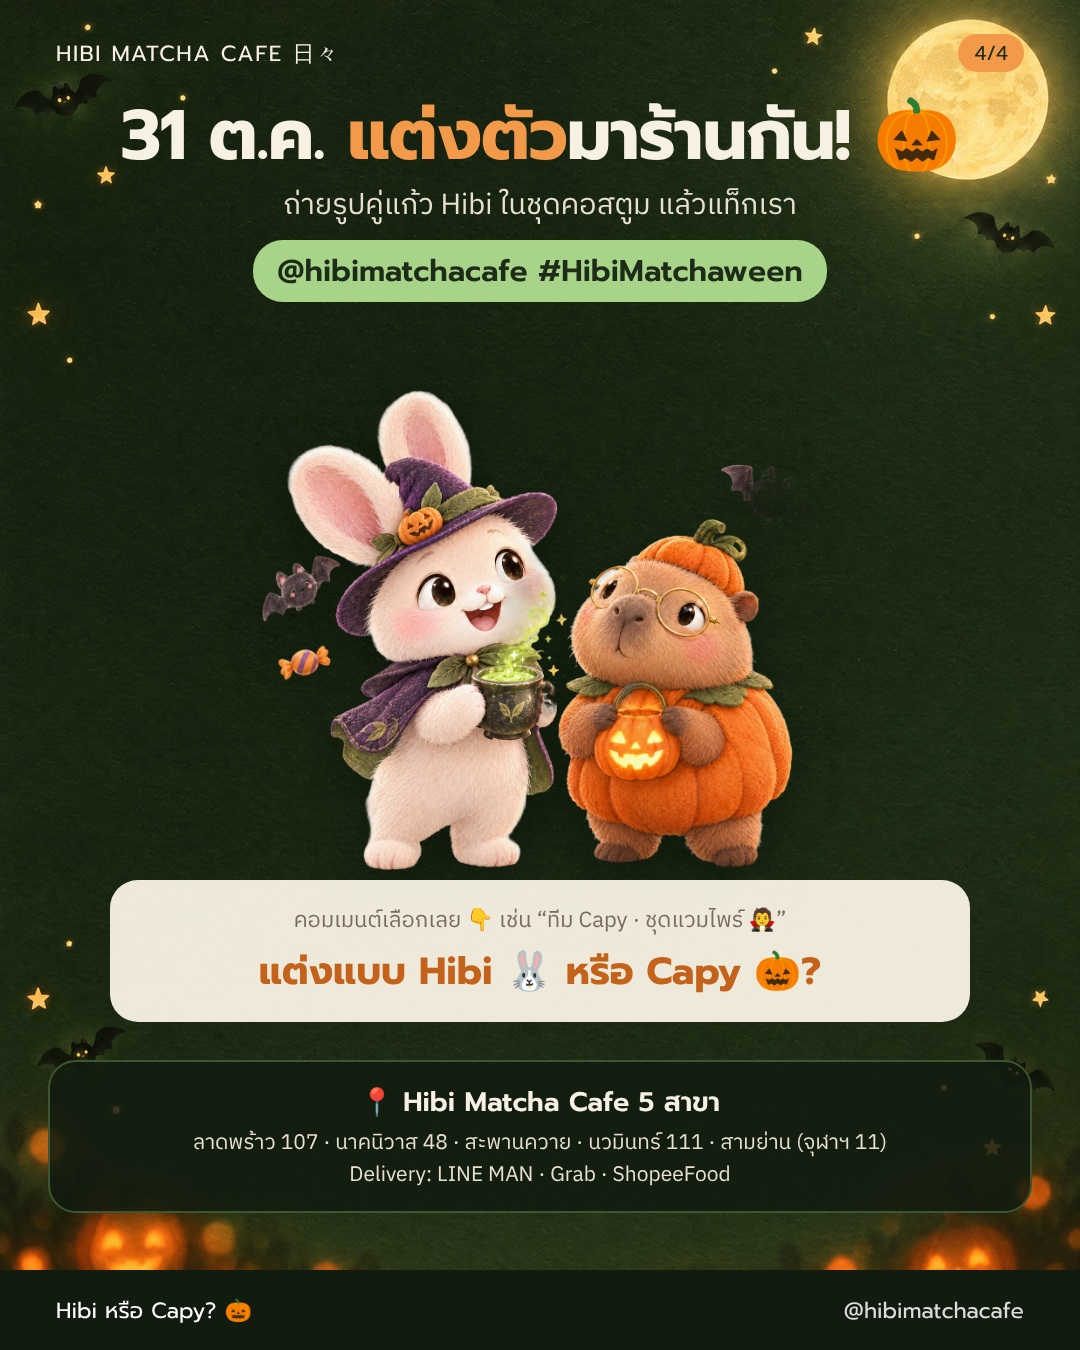
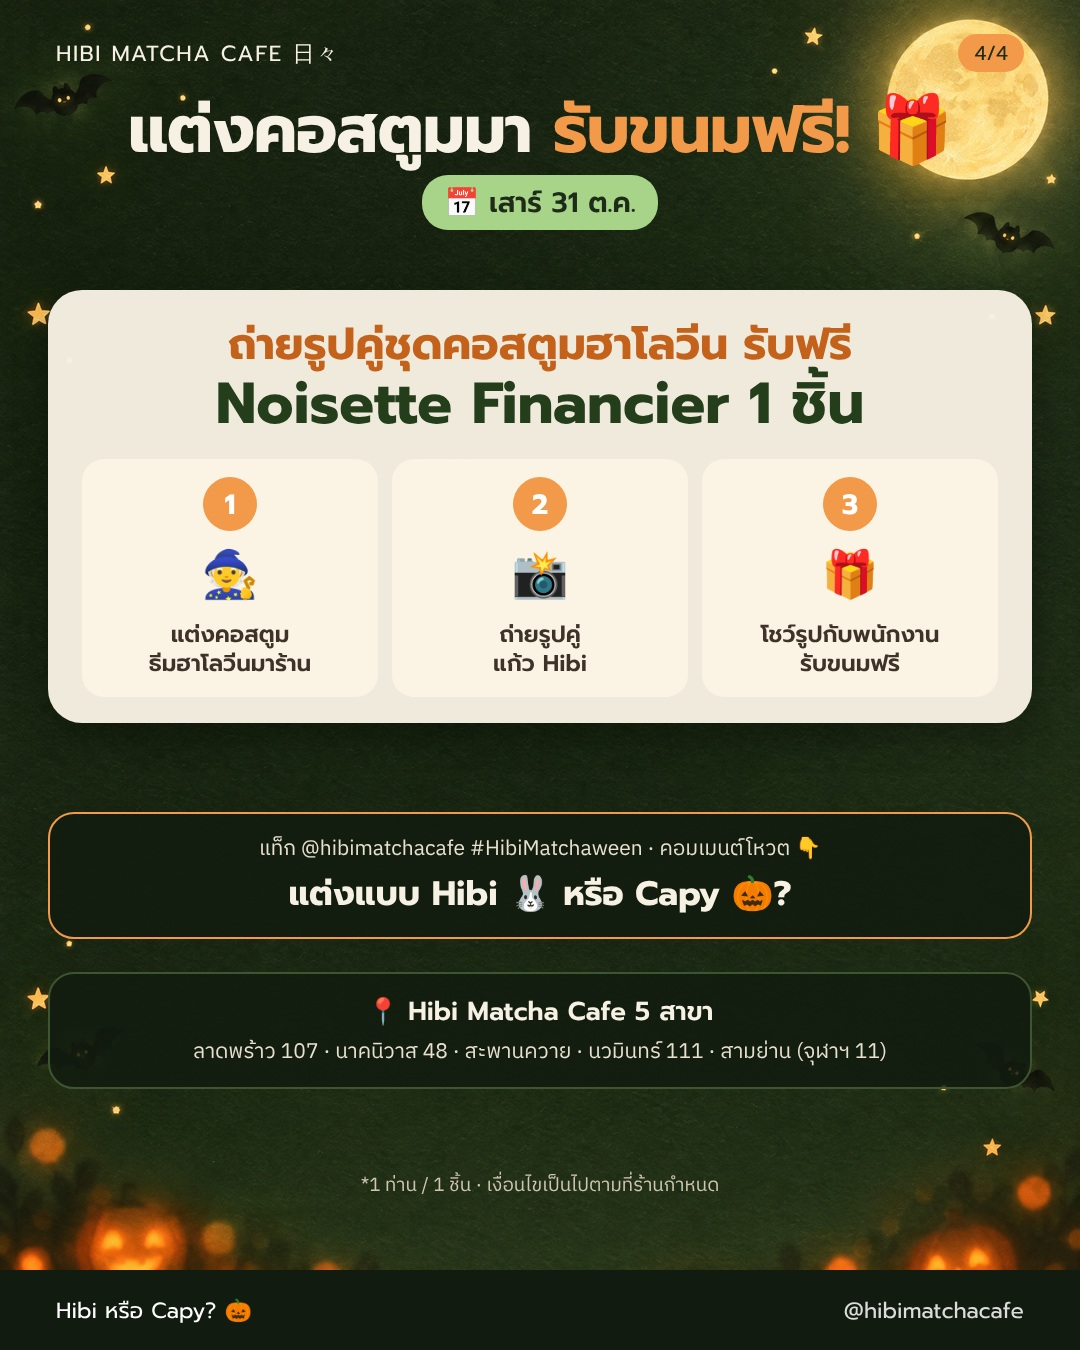
Halloween carousel: add free Noisette Financier costume-photo promo
Claude-Session: https://claude.ai/code/session_019v9CAxCxqD3EqyHWdLwpMA

diff --git a/docs/content-plan/campaigns/halloween-2026/build_slides.py b/docs/content-plan/campaigns/halloween-2026/build_slides.py
@@ -26,12 +26,14 @@ def s1():
     css = f""".w{{position:absolute;top:100px;left:0;right:0;text-align:center}}
 .t{{font-size:72px;color:{CREAM};margin-top:14px;text-shadow:0 4px 18px rgba(0,0,0,.35)}}
 .s{{font-size:31px;color:#e8e1cf;margin-top:10px}}.s b{{color:{LEAF}}}.s i{{font-style:normal;color:{ORANGE}}}
+.promo{{display:inline-block;margin-top:14px;font-family:'Prompt';font-weight:600;font-size:27px;color:{NIGHT};background:{ORANGE};padding:7px 22px;border-radius:26px}}
 .vs{{position:absolute;top:760px;left:490px;width:100px;height:100px;border-radius:50%;background:{ORANGE};color:{NIGHT};font-family:'Prompt';font-weight:700;font-size:40px;display:flex;align-items:center;justify-content:center;box-shadow:0 8px 20px rgba(0,0,0,.35)}}
 .lb{{position:absolute;top:1120px;font-family:'Prompt';font-weight:700;font-size:34px;padding:10px 26px;border-radius:34px;box-shadow:0 8px 20px rgba(0,0,0,.3)}}
 .sw{{position:absolute;right:56px;top:1206px;font-family:'Prompt';font-weight:600;font-size:24px;color:{ORANGE}}}"""
     body = f"""<div class="w"><span class="chip">🎃 Happy Matcha-ween</span>
-<div class="h1 t">Halloween นี้ แต่งแบบไหนดี?</div><div class="s">แต่งแบบ <b>Hibi</b> หรือแบบ <i>Capy</i>? ปัดดูแล้วเลือกเลย</div></div>
-<img class="art" src="{A('art_duo')}" style="left:90px;top:380px;width:900px;height:760px;object-fit:contain">
+<div class="h1 t">Halloween นี้ แต่งแบบไหนดี?</div><div class="s">แต่งแบบ <b>Hibi</b> หรือแบบ <i>Capy</i>? ปัดดูแล้วเลือกเลย</div>
+<div class="promo">🎁 แต่งคอสตูมมาถ่ายรูป รับ Noisette Financier ฟรี!</div></div>
+<img class="art" src="{A('art_duo')}" style="left:110px;top:430px;width:860px;height:720px;object-fit:contain">
 <div class="vs">VS</div>
 <div class="lb" style="left:120px;background:{LEAF};color:{NIGHT}">🐰 แบบ Hibi</div>
 <div class="lb" style="right:120px;background:{ORANGE};color:{NIGHT}">🎃 แบบ Capy</div>"""
@@ -69,19 +71,29 @@ def s3():
     return page(3, body, CARD)
 
 def s4():
-    css = f""".w{{position:absolute;top:100px;left:0;right:0;text-align:center}}
-.t{{font-size:70px;color:{CREAM}}}.t em{{font-style:normal;color:{ORANGE}}}
-.s{{font-size:29px;color:#e8e1cf;margin-top:12px;line-height:1.4}}
-.tag{{display:inline-block;margin-top:14px;font-family:'Prompt';font-weight:600;font-size:30px;color:{NIGHT};background:{LEAF};padding:8px 24px;border-radius:30px}}
-.ask{{position:absolute;top:880px;left:110px;right:110px;background:rgba(247,241,227,.96);color:#2b2219;border-radius:28px;padding:22px 30px;text-align:center}}
-.ask .k{{font-size:22px;color:#7a6a5d}}.ask .v{{font-family:'Prompt';font-weight:700;font-size:38px;color:#c4611b;margin-top:4px}}
-.br{{position:absolute;top:1060px;left:48px;right:48px;background:rgba(18,27,15,.85);border:2px solid #3d5530;border-radius:28px;padding:20px 26px;text-align:center}}
-.br .t2{{font-family:'Prompt';font-weight:600;font-size:27px}}.br .l{{font-size:21px;margin-top:6px;line-height:1.5;color:#e8e1cf}}"""
-    body = f"""<div class="w"><div class="h1 t">31 ต.ค. <em>แต่งตัว</em>มาร้านกัน! 🎃</div>
-<div class="s">ถ่ายรูปคู่แก้ว Hibi ในชุดคอสตูม แล้วแท็กเรา</div><span class="tag">@hibimatchacafe #HibiMatchaween</span></div>
-<img class="art" src="{A('art_duo')}" style="left:250px;top:390px;width:580px;height:480px;object-fit:contain">
-<div class="ask"><div class="k">คอมเมนต์เลือกเลย 👇 เช่น “ทีม Capy · ชุดแวมไพร์ 🧛”</div><div class="v">แต่งแบบ Hibi 🐰 หรือ Capy 🎃?</div></div>
-<div class="br"><div class="t2">📍 Hibi Matcha Cafe 5 สาขา</div><div class="l">ลาดพร้าว 107 · นาคนิวาส 48 · สะพานควาย · นวมินทร์ 111 · สามย่าน (จุฬาฯ 11)<br>Delivery: LINE MAN · Grab · ShopeeFood</div></div>"""
+    css = f""".w{{position:absolute;top:96px;left:0;right:0;text-align:center}}
+.t{{font-size:66px;color:{CREAM}}}.t em{{font-style:normal;color:{ORANGE}}}
+.dt{{display:inline-block;margin-top:10px;font-family:'Prompt';font-weight:600;font-size:28px;color:{NIGHT};background:{LEAF};padding:6px 22px;border-radius:26px}}
+.pc{{position:absolute;top:290px;left:48px;right:48px;background:rgba(247,241,227,.97);color:#2b2219;border-radius:34px;padding:30px 34px 26px;box-shadow:0 14px 34px rgba(0,0,0,.3)}}
+.pc .gift{{text-align:center;font-family:'Prompt';font-weight:700;font-size:44px;color:#c4611b;line-height:1.15}}
+.pc .gift b{{display:block;font-size:58px;color:#243e1b}}
+.st{{display:flex;gap:14px;margin-top:22px}}
+.st .i{{flex:1;background:#fbf3e4;border-radius:22px;padding:18px 14px;text-align:center}}
+.st .n{{width:54px;height:54px;margin:0 auto;border-radius:50%;background:{ORANGE};color:#fff;font-family:'Prompt';font-weight:700;font-size:28px;display:flex;align-items:center;justify-content:center}}
+.st .e{{font-size:46px;margin-top:8px}}.st .x{{font-family:'Prompt';font-weight:600;font-size:23px;margin-top:6px;line-height:1.25;color:#3f3229}}
+.ask{{position:absolute;top:812px;left:48px;right:48px;background:rgba(18,27,15,.85);border:2px solid {ORANGE};border-radius:26px;padding:18px 24px;text-align:center}}
+.ask .k{{font-size:21px;color:#e8e1cf}}.ask .v{{font-family:'Prompt';font-weight:700;font-size:34px;color:{CREAM};margin-top:2px}}
+.br{{position:absolute;top:972px;left:48px;right:48px;background:rgba(18,27,15,.85);border:2px solid #3d5530;border-radius:26px;padding:18px 24px;text-align:center}}
+.br .t2{{font-family:'Prompt';font-weight:600;font-size:26px}}.br .l{{font-size:21px;margin-top:6px;line-height:1.5;color:#e8e1cf}}
+.note{{position:absolute;top:1170px;left:0;right:0;text-align:center;font-size:19px;color:#cfc6b2}}"""
+    body = f"""<div class="w"><div class="h1 t">แต่งคอสตูมมา <em>รับขนมฟรี!</em> 🎁</div><span class="dt">📅 เสาร์ 31 ต.ค.</span></div>
+<div class="pc"><div class="gift">ถ่ายรูปคู่ชุดคอสตูมฮาโลวีน รับฟรี<b>Noisette Financier 1 ชิ้น</b></div>
+<div class="st"><div class="i"><div class="n">1</div><div class="e">🧙</div><div class="x">แต่งคอสตูม<br>ธีมฮาโลวีนมาร้าน</div></div>
+<div class="i"><div class="n">2</div><div class="e">📸</div><div class="x">ถ่ายรูปคู่<br>แก้ว Hibi</div></div>
+<div class="i"><div class="n">3</div><div class="e">🎁</div><div class="x">โชว์รูปกับพนักงาน<br>รับขนมฟรี</div></div></div></div>
+<div class="ask"><div class="k">แท็ก @hibimatchacafe #HibiMatchaween · คอมเมนต์โหวต 👇</div><div class="v">แต่งแบบ Hibi 🐰 หรือ Capy 🎃?</div></div>
+<div class="br"><div class="t2">📍 Hibi Matcha Cafe 5 สาขา</div><div class="l">ลาดพร้าว 107 · นาคนิวาส 48 · สะพานควาย · นวมินทร์ 111 · สามย่าน (จุฬาฯ 11)</div></div>
+<div class="note">*1 ท่าน / 1 ชิ้น · เงื่อนไขเป็นไปตามที่ร้านกำหนด</div>"""
     return page(4, body, css)
 
 for n, html in enumerate([s1(), s2(), s3(), s4()], 1):
